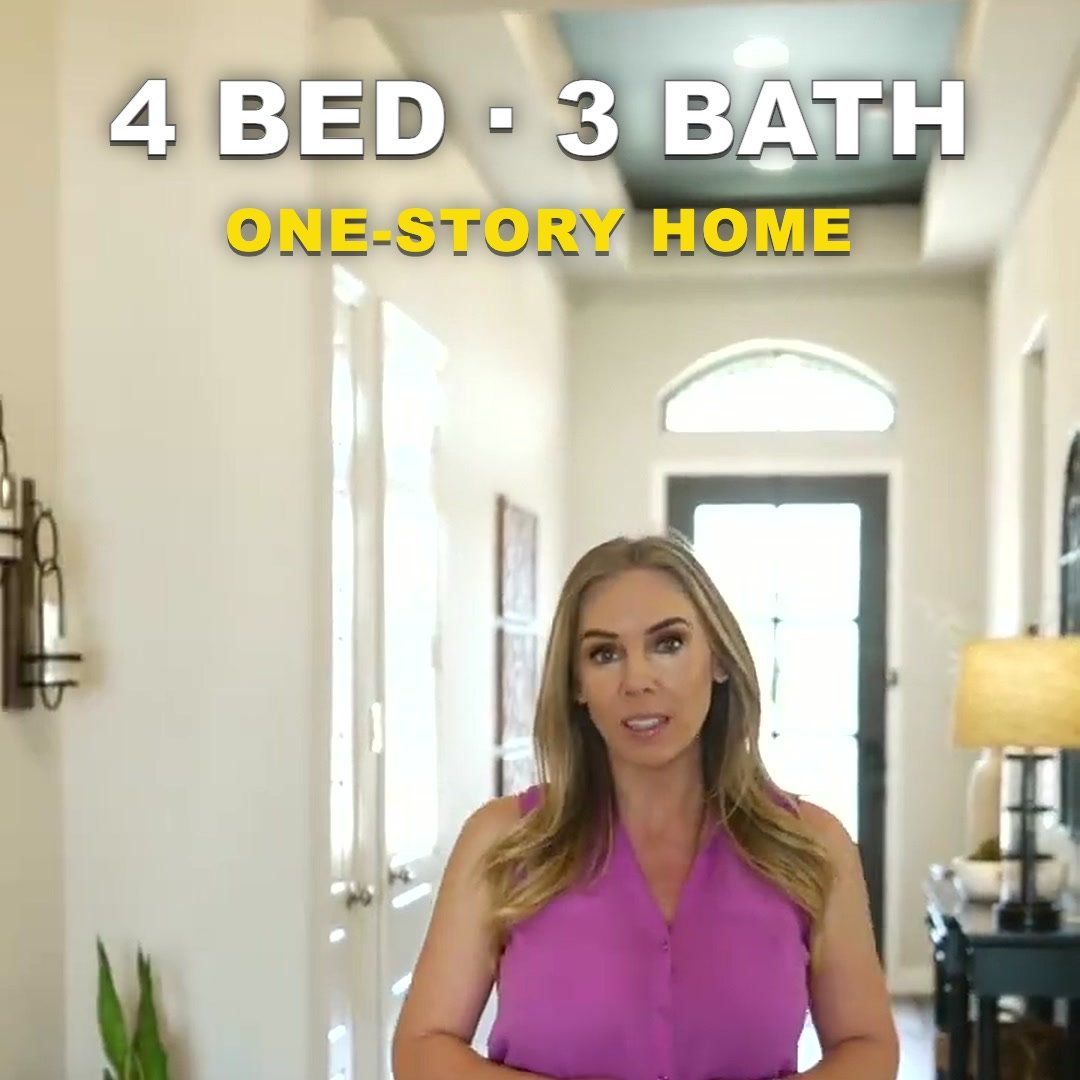
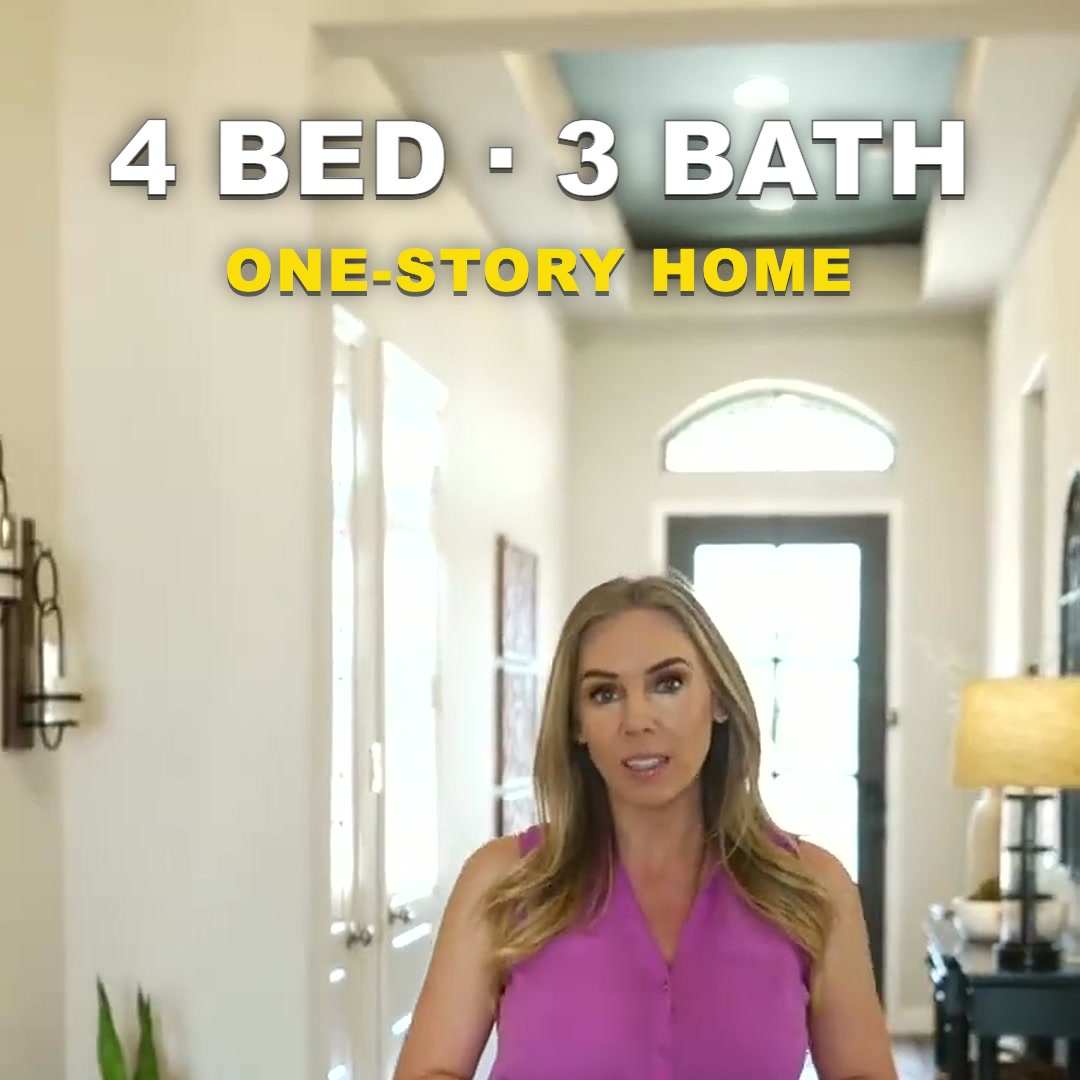
Trim Property Tour copy and fix its portfolio tile crop
Shorter description everywhere it appears. The portfolio tile now frames the
hook text and presenter, and the hover video uses the same crop as the still.

diff --git a/work/real-estate-property-tour/index.html b/work/real-estate-property-tour/index.html
@@ -12,11 +12,11 @@
       gtag('js', new Date());
       gtag('config', 'G-TH2S1CQT9B');
     </script>
-    <meta name="description" content="Real Estate Property Tour: a 27-second vertical property tour by Nigerian video editor Aderemi Salako, built to drive buyer inquiries with word-timed captions, push-in cuts and a clear CTA." />
+    <meta name="description" content="Real Estate Property Tour: a 27-second vertical reel by Nigerian video editor Aderemi Salako for TikTok and Instagram Reels." />
     <title>Real Estate Property Tour: Short-Form Edit Case Study</title>
     <link rel="canonical" href="https://aderemisalako.me/work/real-estate-property-tour/" />
     <meta property="og:title" content="Real Estate Property Tour — Short-Form Edit Case Study" />
-    <meta property="og:description" content="A 27-second vertical property tour reel edited for TikTok and Instagram Reels, with word-timed captions and a clear call to action." />
+    <meta property="og:description" content="A 27-second vertical property tour for TikTok and Instagram Reels." />
     <meta property="og:type" content="video.other" />
     <meta property="og:url" content="https://aderemisalako.me/work/real-estate-property-tour/" />
     <meta property="og:site_name" content="Remi Visuals" />
@@ -41,7 +41,7 @@
             "@type": "VideoObject",
             "@id": "https://aderemisalako.me/work/real-estate-property-tour/#video",
             "name": "Real Estate Property Tour — vertical short-form edit",
-            "description": "A 27-second vertical property tour reel edited for TikTok and Instagram Reels: hook card, word-timed captions, push-in tour cuts and a closing call to action.",
+            "description": "A 27-second vertical property tour for TikTok and Instagram Reels.",
             "thumbnailUrl": ["https://aderemisalako.me/assets/real-estate-property-tour-poster.jpg"],
             "uploadDate": "2026-10-12T12:00:00+01:00",
             "duration": "PT27S",
@@ -56,7 +56,7 @@
             "name": "Real Estate Property Tour",
             "headline": "Real Estate Property Tour: Short-Form Edit Case Study",
             "url": "https://aderemisalako.me/work/real-estate-property-tour/",
-            "description": "Case study of a 27-second vertical property tour: the brief, the edit approach and the outcome.",
+            "description": "Case study of a 27-second vertical property tour reel.",
             "image": "https://aderemisalako.me/assets/real-estate-property-tour-poster.jpg",
             "dateCreated": "2026",
             "genre": "Short-form editing",
@@ -102,33 +102,33 @@
         <header class="case-header">
           <p class="kicker">Short Form &middot; Property Tour &middot; 2026</p>
           <h1>Real Estate Property Tour</h1>
-          <p class="case-lede">A vertical property tour for TikTok and Instagram Reels: a sharp hook, word-timed captions, a quick room-by-room walkthrough and one clear prompt to book a private showing.</p>
+          <p class="case-lede">A vertical property tour for TikTok and Instagram Reels.</p>
         </header>
         <figure class="case-hero case-hero-vertical">
           <video controls playsinline preload="none" poster="/assets/real-estate-property-tour-poster-vertical.jpg" width="1080" height="1920" aria-label="Watch Real Estate Property Tour, a 27-second vertical short-form edit">
             <source src="/assets/real-estate-property-tour.webm" type="video/webm" />
             <source src="/assets/real-estate-property-tour.mp4" type="video/mp4" />
           </video>
-          <figcaption>Real Estate Property Tour &middot; 27-second vertical edit by Aderemi A. Salako. Footage used with permission.</figcaption>
+          <figcaption>Real Estate Property Tour &middot; 27-second vertical edit by Aderemi A. Salako.</figcaption>
         </figure>
         <div class="case-layout reveal">
           <div>
-            <section><h2>The brief</h2><p>Produce a sleek vertical property highlight reel from 48 seconds of raw walkthrough footage, built to earn attention in the first three seconds and drive qualified buyer inquiries.</p></section>
-            <section><h2>The approach</h2><p>The opening states the facts the presenter says out loud: four bedrooms, three bathrooms, one story. Her intro stays in sync with word-timed captions. The silent middle of the walk-through becomes seven short shots with slow push-ins and room labels, and the closing line lands on a single booking prompt.</p></section>
+            <section><h2>The brief</h2><p>Turn raw walkthrough footage into a short reel that drives buyer inquiries.</p></section>
+            <section><h2>The approach</h2><p>A sharp hook, word-timed captions, a quick room-by-room tour and one clear prompt to book a showing.</p></section>
           </div>
           <aside class="case-facts">
             <p class="kicker">At a glance</p>
             <dl>
-              <div><dt>Role</dt><dd>Editing &middot; captions &middot; motion graphics &middot; finishing</dd></div>
+              <div><dt>Role</dt><dd>Video editing &middot; captions</dd></div>
               <div><dt>Focus</dt><dd>Vertical short-form edit</dd></div>
-              <div><dt>Deliverable</dt><dd>27-second 1080 &times; 1920 reel</dd></div>
+              <div><dt>Deliverable</dt><dd>27-second vertical reel</dd></div>
             </dl>
             <a class="about-cv case-inquiry" href="/contact?ref=Real%20Estate%20Property%20Tour#contact" data-hire-cta="case_study">Start a project &rarr;</a>
           </aside>
         </div>
         <section class="case-outcome reveal">
           <h2>Outcome</h2>
-          <p>A 27-second reel built for the platforms it will be posted on: readable on a muted phone, paced around the presenter&rsquo;s words and finished with a single clear next step.</p>
+          <p>A 27-second vertical reel ready for TikTok and Instagram Reels.</p>
           <p><a class="link-cta" href="/services#short-form">Short-form editing services &rarr;</a> <a class="link-cta" href="/portfolio">More work &rarr;</a></p>
         </section>
       </article>

diff --git a/script.js b/script.js
@@ -31,14 +31,14 @@ var projects = [
     approach: 'The treatment keeps the surrounding palette restrained and the contrast controlled, reserving saturation for the eye reveal. Each adjustment was chosen to protect the skin tone and let the emotional shift arrive through colour rather than noise.',
     outcome: 'A compact visual study with a precise focal point: the final grade gives the reveal its weight while preserving the calm that makes it unsettling.' },
   { slug: 'Real Estate Property Tour', title: 'Real Estate Property Tour', cat: 'Short form · Property Tour · 2026', meta: 'Short Form · 2026',
-    desc: 'A vertical property tour for TikTok and Instagram Reels: a sharp hook, word-timed captions, a quick room-by-room walkthrough and one clear prompt to book a private showing.',
+    desc: 'A 27-second vertical property tour for TikTok and Instagram Reels.',
     url: '/work/real-estate-property-tour/',
     video: 'assets/real-estate-property-tour.mp4', poster: 'assets/real-estate-property-tour-poster-vertical.jpg',
     thumb: 'assets/showreel/real-estate-property-tour-square.jpg',
-    role: 'Editing · captions · motion graphics · finishing', focus: 'Vertical short-form edit', deliverable: '27-second 1080 × 1920 reel',
-    brief: 'Produce a sleek vertical property highlight reel from 48 seconds of raw walkthrough footage, built to earn attention in the first three seconds and drive qualified buyer inquiries.',
-    approach: 'The opening states the facts the presenter says out loud: four bedrooms, three bathrooms, one story. Her intro stays in sync with word-timed captions. The silent middle of the walk-through becomes seven short shots with slow push-ins and room labels, and the closing line lands on a single booking prompt.',
-    outcome: 'A 27-second reel built for the platforms it will be posted on: readable on a muted phone, paced around the presenter\u2019s words and finished with a single clear next step.' },
+    role: 'Video editing · captions', focus: 'Vertical short-form edit', deliverable: '27-second vertical reel',
+    brief: 'Turn raw walkthrough footage into a short reel that drives buyer inquiries.',
+    approach: 'A sharp hook, word-timed captions, a quick room-by-room tour and one clear prompt to book a showing.',
+    outcome: 'A 27-second vertical reel ready for TikTok and Instagram Reels.', vertical: true },
   { slug: 'Momentum', title: 'Momentum', cat: 'Commercial · VFX · 2026', meta: 'Commercial · 2026',
     desc: 'A high energy brand film treatment with editorial pacing, VFX polish, colour finishing, and motion led emphasis.',
     thumb: 'assets/showreel/video-placeholder-01.webp',
@@ -139,6 +139,7 @@ if (filmGrid) {
     var b = tile('Play ' + p.title + ' — ' + p.meta,
       '<video src="' + (p.video || PLACEHOLDER_FILM) + '" poster="' + (p.thumb || p.poster) +
       '" muted loop playsinline preload="none" tabindex="-1" aria-hidden="true"></video>' + ICON_PLAY);
+    if (p.vertical) b.classList.add('is-vertical');
     var vid = b.querySelector('video');
     if (!quiet) {
       var play = function () { var r = vid.play(); if (r && r.catch) r.catch(function () {}); };

diff --git a/portfolio.html b/portfolio.html
@@ -80,7 +80,7 @@
           <div class="case-list reveal">
             <h2>Case studies</h2>
             <p><a class="link-cta" href="/work/red-eye-effect/">Red Eye Effect: cinematic colour grading study &rarr;</a></p>
-            <p><a class="link-cta" href="/work/real-estate-property-tour/">Real Estate Property Tour: vertical short-form edit &rarr;</a></p>
+            <p><a class="link-cta" href="/work/real-estate-property-tour/">Real Estate Property Tour: vertical reel &rarr;</a></p>
             <p class="note">Need something similar? See <a href="/services">editing and colour grading services</a> or <a href="/contact">get in touch</a>.</p>
           </div>
 

diff --git a/styles.css b/styles.css
@@ -145,6 +145,7 @@ section{padding:clamp(56px,8vw,96px) 0}
 /* tactile press on gallery tiles */
 .tile{transition:scale .15s ease}
 .tile:active{scale:.96}
+.tile.is-vertical img,.tile.is-vertical video{object-position:50% 19%}
 .gallery-cta{margin:22px 0 0}
 .link-cta{font:500 12px/1 var(--body);text-transform:uppercase;letter-spacing:.1em;color:var(--ink);padding:0 0 6px;border-bottom:1px solid var(--line);transition:color .3s ease,border-color .3s ease}
 .link-cta:hover{color:var(--accent);border-color:var(--accent)}

diff --git a/index.html b/index.html
@@ -195,7 +195,7 @@
             <div class="feature-copy">
               <p class="kicker">Short form &middot; 2026</p>
               <h3>Real Estate Property Tour</h3>
-              <p>A 27-second vertical property tour with a clear hook, word-timed captions, push-in tour cuts and a single call to action.</p>
+              <p>A 27-second vertical property tour for TikTok and Instagram Reels.</p>
               <span class="link-cta">Read the case study &rarr;</span>
             </div>
           </a>
